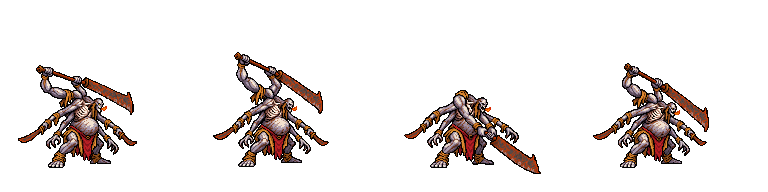
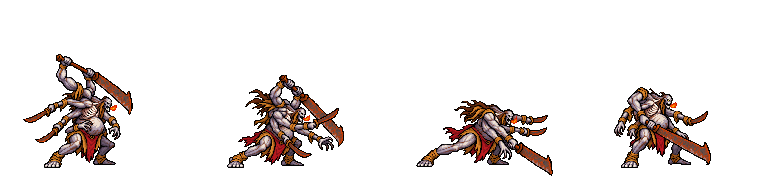
art: animate Asura full-body six-arm attack

diff --git a/docs/art/undead-sprites/actions/manifest.js b/docs/art/undead-sprites/actions/manifest.js
@@ -1,1 +1,1 @@
-window.undeadActions=[{"id":"utburd","image":"utburd.png","cell":192,"anchor":{"x":80,"y":168},"frameMs":160,"impactFrame":2,"clips":[{"name":"attack","frames":[0,1,2,3]},{"name":"heal","frames":[4,5,6,7]}],"records":[{"frame":0,"pivot":{"px":200,"py":458},"scale":0.2146341463414634,"occupied":3023,"edge":0},{"frame":1,"pivot":{"px":587,"py":458},"scale":0.2146341463414634,"occupied":3142,"edge":0},{"frame":2,"pivot":{"px":952,"py":458},"scale":0.2146341463414634,"occupied":3707,"edge":0},{"frame":3,"pivot":{"px":1429.5,"py":458},"scale":0.2146341463414634,"occupied":2522,"edge":0},{"frame":4,"pivot":{"px":200,"py":915},"scale":0.2146341463414634,"occupied":3019,"edge":0},{"frame":5,"pivot":{"px":554,"py":915},"scale":0.2146341463414634,"occupied":3032,"edge":0},{"frame":6,"pivot":{"px":943.5,"py":915},"scale":0.2146341463414634,"occupied":3542,"edge":0},{"frame":7,"pivot":{"px":1430,"py":915},"scale":0.2146341463414634,"occupied":2862,"edge":0}]},{"id":"silat","image":"silat.png","cell":192,"anchor":{"x":80,"y":168},"frameMs":160,"impactFrame":2,"clips":[{"name":"attack","frames":[0,1,2,3]}],"records":[{"frame":0,"pivot":{"px":192.5,"py":640},"scale":0.12,"occupied":2004,"edge":0},{"frame":1,"pivot":{"px":748,"py":640},"scale":0.12,"occupied":2054,"edge":0},{"frame":2,"pivot":{"px":1251.5,"py":640},"scale":0.12,"occupied":2037,"edge":0},{"frame":3,"pivot":{"px":1866,"py":640},"scale":0.12,"occupied":1982,"edge":0}]},{"id":"nachzehrer","image":"nachzehrer.png","cell":192,"anchor":{"x":80,"y":168},"frameMs":160,"impactFrame":2,"clips":[{"name":"attack","frames":[0,1,2,3]}],"records":[{"frame":0,"pivot":{"px":369.5,"py":656},"scale":0.13755458515283842,"occupied":3123,"edge":0},{"frame":1,"pivot":{"px":879,"py":641},"scale":0.13755458515283842,"occupied":2595,"edge":0},{"frame":2,"pivot":{"px":1425,"py":655},"scale":0.13755458515283842,"occupied":3220,"edge":0},{"frame":3,"pivot":{"px":1960,"py":655},"scale":0.13755458515283842,"occupied":3095,"edge":0}]},{"id":"vetala","image":"vetala.png","cell":192,"anchor":{"x":80,"y":168},"frameMs":160,"impactFrame":2,"clips":[{"name":"attack","frames":[0,1,2,3]}],"records":[{"frame":0,"pivot":{"px":346,"py":613},"scale":0.15824915824915825,"occupied":3473,"edge":0},{"frame":1,"pivot":{"px":971.5,"py":613},"scale":0.15824915824915825,"occupied":3527,"edge":0},{"frame":2,"pivot":{"px":338.5,"py":1223},"scale":0.15824915824915825,"occupied":4652,"edge":0},{"frame":3,"pivot":{"px":986.5,"py":1236},"scale":0.15824915824915825,"occupied":3512,"edge":0}]},{"id":"asura-preta","image":"asura-preta.png","cell":192,"anchor":{"x":80,"y":168},"frameMs":160,"impactFrame":2,"clips":[{"name":"attack","frames":[0,1,2,3]}],"records":[{"frame":0,"pivot":{"px":347.68,"py":628.2760000000001},"scale":0.18659420289855072,"occupied":5197,"edge":0},{"frame":1,"pivot":{"px":990.5600000000001,"py":628.2760000000001},"scale":0.18659420289855072,"occupied":5251,"edge":0},{"frame":2,"pivot":{"px":334.56,"py":1153.4379999999999},"scale":0.18659420289855072,"occupied":4592,"edge":0},{"frame":3,"pivot":{"px":1016.8000000000001,"py":1191.806},"scale":0.18659420289855072,"occupied":5004,"edge":0}]}];
+window.undeadActions=[{"id":"utburd","image":"utburd.png","cell":192,"anchor":{"x":80,"y":168},"frameMs":160,"impactFrame":2,"clips":[{"name":"attack","frames":[0,1,2,3]},{"name":"heal","frames":[4,5,6,7]}],"records":[{"frame":0,"pivot":{"px":200,"py":458},"scale":0.2146341463414634,"occupied":3023,"edge":0},{"frame":1,"pivot":{"px":587,"py":458},"scale":0.2146341463414634,"occupied":3142,"edge":0},{"frame":2,"pivot":{"px":952,"py":458},"scale":0.2146341463414634,"occupied":3707,"edge":0},{"frame":3,"pivot":{"px":1429.5,"py":458},"scale":0.2146341463414634,"occupied":2522,"edge":0},{"frame":4,"pivot":{"px":200,"py":915},"scale":0.2146341463414634,"occupied":3019,"edge":0},{"frame":5,"pivot":{"px":554,"py":915},"scale":0.2146341463414634,"occupied":3032,"edge":0},{"frame":6,"pivot":{"px":943.5,"py":915},"scale":0.2146341463414634,"occupied":3542,"edge":0},{"frame":7,"pivot":{"px":1430,"py":915},"scale":0.2146341463414634,"occupied":2862,"edge":0}]},{"id":"silat","image":"silat.png","cell":192,"anchor":{"x":80,"y":168},"frameMs":160,"impactFrame":2,"clips":[{"name":"attack","frames":[0,1,2,3]}],"records":[{"frame":0,"pivot":{"px":192.5,"py":640},"scale":0.12,"occupied":2004,"edge":0},{"frame":1,"pivot":{"px":748,"py":640},"scale":0.12,"occupied":2054,"edge":0},{"frame":2,"pivot":{"px":1251.5,"py":640},"scale":0.12,"occupied":2037,"edge":0},{"frame":3,"pivot":{"px":1866,"py":640},"scale":0.12,"occupied":1982,"edge":0}]},{"id":"nachzehrer","image":"nachzehrer.png","cell":192,"anchor":{"x":80,"y":168},"frameMs":160,"impactFrame":2,"clips":[{"name":"attack","frames":[0,1,2,3]}],"records":[{"frame":0,"pivot":{"px":369.5,"py":656},"scale":0.13755458515283842,"occupied":3123,"edge":0},{"frame":1,"pivot":{"px":879,"py":641},"scale":0.13755458515283842,"occupied":2595,"edge":0},{"frame":2,"pivot":{"px":1425,"py":655},"scale":0.13755458515283842,"occupied":3220,"edge":0},{"frame":3,"pivot":{"px":1960,"py":655},"scale":0.13755458515283842,"occupied":3095,"edge":0}]},{"id":"vetala","image":"vetala.png","cell":192,"anchor":{"x":80,"y":168},"frameMs":160,"impactFrame":2,"clips":[{"name":"attack","frames":[0,1,2,3]}],"records":[{"frame":0,"pivot":{"px":346,"py":613},"scale":0.15824915824915825,"occupied":3473,"edge":0},{"frame":1,"pivot":{"px":971.5,"py":613},"scale":0.15824915824915825,"occupied":3527,"edge":0},{"frame":2,"pivot":{"px":338.5,"py":1223},"scale":0.15824915824915825,"occupied":4652,"edge":0},{"frame":3,"pivot":{"px":986.5,"py":1236},"scale":0.15824915824915825,"occupied":3512,"edge":0}]},{"id":"asura-preta","image":"asura-preta.png","cell":192,"anchor":{"x":80,"y":168},"frameMs":160,"impactFrame":2,"clips":[{"name":"attack","frames":[0,1,2,3]}],"records":[{"frame":0,"pivot":{"px":340,"py":629},"scale":0.18659420289855072,"occupied":5213,"edge":0},{"frame":1,"pivot":{"px":913,"py":628},"scale":0.18659420289855072,"occupied":4979,"edge":0},{"frame":2,"pivot":{"px":288,"py":1114},"scale":0.18659420289855072,"occupied":4339,"edge":0},{"frame":3,"pivot":{"px":980,"py":1128},"scale":0.18659420289855072,"occupied":4072,"edge":0}]}];

diff --git a/docs/art/undead-sprites/actions/preview.html b/docs/art/undead-sprites/actions/preview.html
@@ -14,7 +14,7 @@ for(const e of state){
  const card=document.createElement('section');card.className='card';
  card.innerHTML='<div class="title">'+names[e.id]+'</div><div class="stage"><canvas width="192" height="192"></canvas></div><div class="info"></div><div class="clips"></div><div class="frames"></div>';
  e.card=card;e.canvas=card.querySelector('canvas');cards.append(card);
- const img=new Image();img.src=e.image;e.img=img;img.onload=()=>draw(e);
+ const img=new Image();img.src=e.image+'?v='+encodeURIComponent(JSON.stringify(e.records));e.img=img;img.onload=()=>draw(e);
  e.clips.forEach((c,i)=>{const b=document.createElement('button');b.textContent=c.name==='heal'?'Лечение':'Атака';b.onclick=()=>{e.clip=i;e.frame=0;draw(e)};card.querySelector('.clips').append(b)});
  for(let i=0;i<4;i++){const b=document.createElement('button');b.textContent=String(i+1);b.onclick=()=>{playing=false;e.frame=i;updateControls();draw(e)};card.querySelector('.frames').append(b)}
 }

diff --git a/docs/art/undead-sprites/actions/export/Program.cs b/docs/art/undead-sprites/actions/export/Program.cs
@@ -32,12 +32,16 @@ foreach(var id in new[]{"utburd","silat","nachzehrer","vetala","asura-preta"}){
  using var reference=new Bitmap(Path.Combine(root,"../../../../content/art/prototypes/undead",id+".png"));
  int top=128,bottom=0;for(int y=0;y<128;y++)for(int x=0;x<128;x++)if(reference.GetPixel(x,y).A>=128){top=Math.Min(top,y);bottom=Math.Max(bottom,y);}
  double scale=(bottom-top+1.0)/bodies[0].Box.Height;
+ // The Asura winds up above the head, then lunges low. Keep the approved body
+ // scale across poses rather than shrinking the body to the raised sword box.
+ if(id=="asura-preta")scale=0.18659420289855072;
  using var sheet=new Bitmap(192*4,192*(count/4));var records=new List<object>();
  for(int i=0;i<count;i++){
   var b=bodies[i].Box;
   var feet=bodies[i].Pixels.Where(p=>p/w>=b.Bottom-18).ToArray();
   double px=(feet.Min(p=>p%w)+feet.Max(p=>p%w))/2.0,py=b.Bottom;
-  if(id=="asura-preta"){double[] xs={.265,.755,.255,.775},ys={.524,.524,.962,.994};px=w*xs[i];py=h*ys[i];}
+  // Ground contacts exclude the descending sword tip in the impact frame.
+  if(id=="asura-preta"){double[] xs={340,913,288,980},ys={629,628,1114,1128};px=xs[i];py=ys[i];}
   int occupied=0,edge=0;
   for(int y=0;y<192;y++)for(int x=0;x<192;x++){
    int sx=(int)Math.Floor(px+(x+.5-80)/scale),sy=(int)Math.Floor(py+(y+.5-168)/scale);

diff --git a/docs/art/undead-sprites/actions/export-preview.py b/docs/art/undead-sprites/actions/export-preview.py
@@ -26,3 +26,14 @@ for index in range(4):
 frames[0].save(root / "undead-actions-half-speed.gif", save_all=True, append_images=frames[1:], duration=320, loop=0, disposal=2)
 frames[2].save(root / "undead-actions-contact.png")
 print("Exported 6 original clips, 4 frames each, 0.5x speed")
+
+asura = next(entry for entry in entries if entry["id"] == "asura-preta")
+atlas = Image.open(root / asura["image"]).convert("RGBA")
+frames = []
+for frame in asura["clips"][0]["frames"]:
+    canvas = Image.new("RGB", (384,416), "#3c483a")
+    ImageDraw.Draw(canvas).text((14,8), "Асура-прета: новая атака / 0,5x", font=font, fill="#efdbab")
+    cell = atlas.crop((frame*192,0,(frame+1)*192,192)).resize((384,384), Image.Resampling.NEAREST)
+    canvas.paste(cell, (0,32), cell)
+    frames.append(canvas)
+frames[0].save(root / "asura-preta-half-speed.gif", save_all=True, append_images=frames[1:], duration=320, loop=0, disposal=2)

diff --git a/src/Game.MonoGame/AssetCatalog.cs b/src/Game.MonoGame/AssetCatalog.cs
@@ -242,6 +242,9 @@ internal sealed class AssetCatalog : IDisposable
         if (source.IsEmpty)
             source = new Rectangle(index % 4 * cellWidth, index / 4 * cellHeight, cellWidth, cellHeight);
         var reference = _actionFrameBounds[key][0];
+        // Keep the approved Asura body scale: its new anticipation raises the
+        // sword higher, which must not shrink the entire creature to that box.
+        if (key == "unit.undead.asura-preta.actions") reference = new Rectangle(18, 65, 119, 103);
         if (reference.IsEmpty) reference = new Rectangle(0, 0, cellWidth, cellHeight);
         var fitted = ActionFrameLayout.FitToReference(source, reference, destination, flipHorizontally,
             cellWidth, cellHeight);

diff --git a/docs/art/undead-sprites/actions/README.md b/docs/art/undead-sprites/actions/README.md
@@ -14,4 +14,6 @@ dotnet run --project docs/art/undead-sprites/actions/export -- docs/art/undead-s
 
 Экспорт берёт реальные alpha-компоненты из `sources/*.png`, один масштаб на весь клип, опору ног в `(80,168)` и точечную выборку без размытия. `edge=0` в JSON означает отсутствие обрезки экспортной клеткой; уже обрезанные границей *исходника* части он не восстанавливает.
 
-Независимое визуальное ревью выявило: исходник Утбурда обрезает кисть в четвёртом кадре атаки и последнем кадре лечения; у Силат и Нахцерера часть крайних лап касается границы исходника; у Веталы переход в широкий выпад меняет видимую постановку ног. Для Асуры перегенерирован лист с небольшим пламенем у рта и лучше разведёнными кистями. Отмеченные переходы надо адресно исправить в следующем арт-проходе и показать повторный предпросмотр.
+24 октября атака Асуры заменена: глубокий выпад, поворот корпуса, работа трёх пар рук, малых клинков, волос и ткани. [Отдельный GIF на 0,5×](asura-preta-half-speed.gif), [покадровое сравнение](asura-preta-before-after.png). Генерация — встроенный Imagegen с прежним листом и утверждённым спрайтом как референсами; [задание](asura-preta-prompt.md). Упаковка сохраняет один масштаб тела и опору ног, не привязанную к кончику меча; игровая калибровка reference (18,65,119,103) не даёт высокому замаху уменьшать персонажа. Все четыре экспортных кадра без обрезки (edge=0). Независимое ревью принято без блокеров: динамика читается в игровом масштабе, палитра совпадает, вертикального скачка стоп нет. Ограничения: часть шести рук перекрывается на кульминации; четыре фазы сохраняют рубленый ритм.
+
+Оставшиеся замечания к другим юнитам: исходник Утбурда обрезает кисть в четвёртом кадре атаки и последнем кадре лечения; у Силат и Нахцерера часть крайних лап касается границы исходника; у Веталы переход в широкий выпад меняет видимую постановку ног. Их надо адресно исправить в следующем арт-проходе.

diff --git a/docs/art/undead-sprites/actions/asura-preta-prompt.md b/docs/art/undead-sprites/actions/asura-preta-prompt.md
@@ -1,0 +1,18 @@
+# Asura-Preta dynamic attack — 2026-10-24
+
+Tool: built-in Imagegen, transparent background. Edit target: previous four-frame source sheet; identity/style reference: `content/art/unit.undead.asura-preta.png`. Output: `sources/asura-preta.png`. Game atlas: `content/art/animations/unit.undead.asura-preta.actions.png`.
+
+Generation brief:
+
+Replace four attack poses with a substantially more dynamic full-body four-frame attack spritesheet of exactly the same six-armed Asura-Preta undead warrior. Preserve identity, palette, costume, proportions and chunky low-resolution pixel-art style. Production sprite animation, not concept art. A 2×2 grid of complete isolated sprites, left-to-right then top-to-bottom, facing right in three-quarter side view. Uniform scale and baseline; real transparent background; generous empty margins in each cell. No letters, numbers, ground, shadows or scenery. Every sword tip, wrist, finger and foot must fit inside its own cell.
+
+Exactly six arms in three pairs, ashen grey-blue rotting skin, skull-like snarling face, long brown hair, thin neck, exposed skinny ribs above a large pot belly, tattered red loincloth, ochre wraps. Upper pair grips one enormous rusty two-handed cleaver sword; middle pair carries two smaller curved blades; lower pair has empty clawed hands. Small mouth flame only. Preserve the approved 1990s fantasy strategy palette and crisp selective outlines; avoid painterly gradients, realistic texture, blur and haze.
+
+All three pairs of arms, shoulders, torso, pelvis, knees, hair and cloth must visibly change between frames. One coherent coordinated melee combination; no detached weapons, projectiles or spell blast.
+
+1. Anticipation: deep knee bend and backward twist, weight on rear leg, upper arms pull greatsword up/back, middle arms draw blades apart/back, lower claws curl toward belly.
+2. Release: explosive forward step and twist, greatsword sweeps diagonally down, middle arms swing blades forward in a crossing slash, lower claws spread/thrust; hair and cloth trail behind.
+3. Impact: deepest forward lunge, extended rear leg, greatsword down/right after impact, middle blades forward at chest height, lower claws rake forward/low; head and belly advance.
+4. Recovery: body recoils partly upright, weight begins moving back, greatsword pulled across lower body, middle blades retract toward opposite ribs, lower claws sweep back/down; cloth settles.
+
+Every pose must read after downsampling to an approximately 100-pixel-tall creature. Do not merely rotate the sword on identical pasted torsos.
